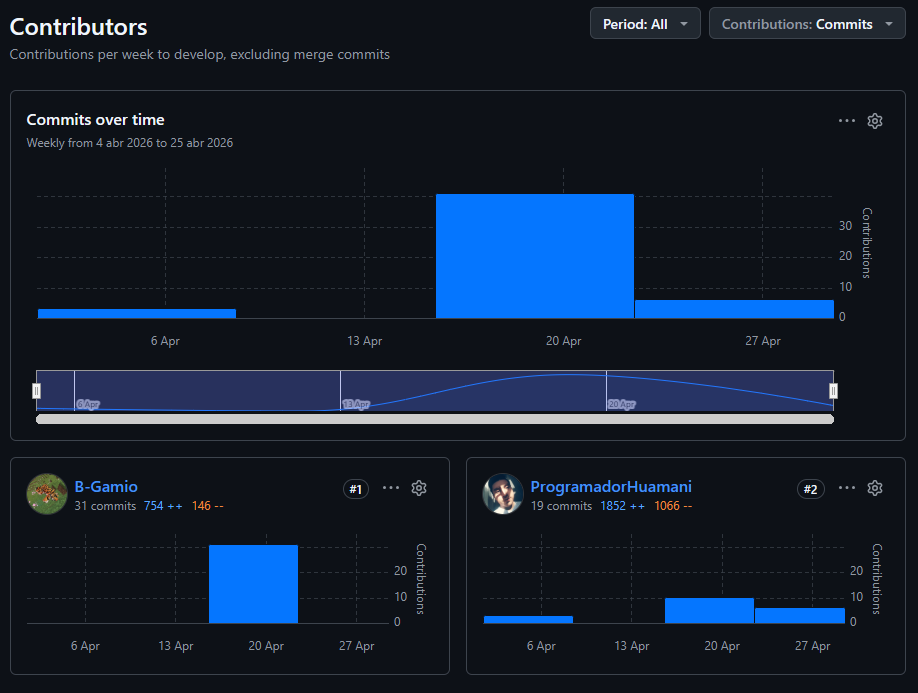
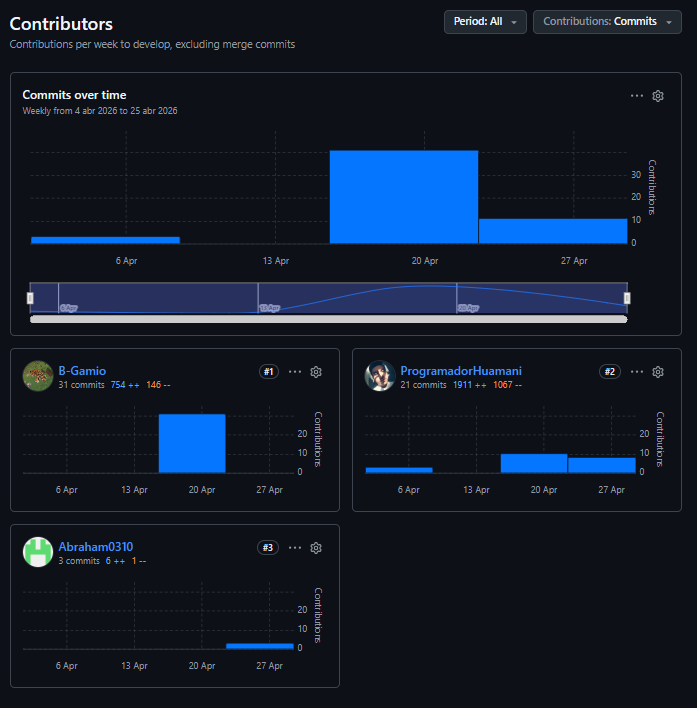
feat(report-version): add the final register of version implemented on chapter 4

diff --git a/upc-pre-1ASI0572-2610-17757-SATECHO/report/10-Version Log & Outcomes.md b/upc-pre-1ASI0572-2610-17757-SATECHO/report/10-Version Log & Outcomes.md
@@ -24,8 +24,10 @@
 | 4.0.0 | 21/04/2025 | Gamio Upiachihua, Brenda Lucía | Desarrollo del **Ubiquitous Language** para la definición de los términos que se utilizarán dentro del negocio y facilitar su trazabilidad y comprensión. |
 | 4.1.0 | 21/04/2025 | Huamani Sánchez, José Diego y Gamio Upiachihua, Brenda Lucía | Desarrollo de los **User Stories** relacionados a la funcionalidad que espera tener nuestro solución orientada a las perspectivas de nuestros segmentos objetivos - la gran mayoría de detalles, obtenidos mediante la información de las entrevistas realizadas. |
 | 4.2.0 | 21/04/2025 | Estrada Cajamune, Abraham André | Elaboración del **Impact Mapping**. |
-| 4.3.0 | 21/04/2025 | Huamani Sánchez, José Diego y Gamio Upiachihua, Brenda Lucía| | Elaboración del **Product Backlog** donde priorizamos cada *User Story* mediante un sistema de calificación **Fibonacci** (si una tarea es fácil de implementar o requiere un esfuerzo mayor para su concretación). |
-| 
+| 4.3.0 | 21/04/2025 | Huamani Sánchez, José Diego y Gamio Upiachihua, Brenda Lucía | Elaboración del **Product Backlog** donde priorizamos cada *User Story* mediante un sistema de calificación **Fibonacci** (si una tarea es fácil de implementar o requiere un esfuerzo mayor para su concretación). |
+| 5.0.0 | 24/04/2026 | Gamio Upiachihua, Brenda Lucía | Desarollo del **Strategic-Level Domain-Driven Design** y **Context Mapping** |
+| 5.1.0 | 24/04/2026 | Palacios, Yasser Renteria | Desarrollo del **Software Architecture** |
+| 5.2.0 | 26/04/2026 |  Gamio Upiachihua, Brenda Lucía | Desarollo del **Tactical Level Domain-Driven Design** |
 
 # Project Report Collaboration Insights
 
@@ -215,14 +217,14 @@ _Figura #2: Historial de commits del repositorio - AV1_
 - [6.4. Video About-The-Product](/docs/chapter-VI.md/#64-video-about-the-product)
 
 # Conclusiones
-- [Conclusiones y recomendaciones]()
-- [Video About-the-Team]()
+- [Conclusiones y recomendaciones](/upc-pre-1ASI0572-2610-17757-SATECHO/report/annexes/99-annexes.md)
+- [Video About-the-Team](/upc-pre-1ASI0572-2610-17757-SATECHO/report/annexes/99-annexes.md)
 
 # Bibliografía
-- [Bibliografía]()
+- [Bibliografía](/upc-pre-1ASI0572-2610-17757-SATECHO/report/annexes/99-annexes.md)
 
 # Anexos
-- [Anexos]()
+- [Anexos](/upc-pre-1ASI0572-2610-17757-SATECHO/report/annexes/99-annexes.md)
 
 # Student Outcome
 
